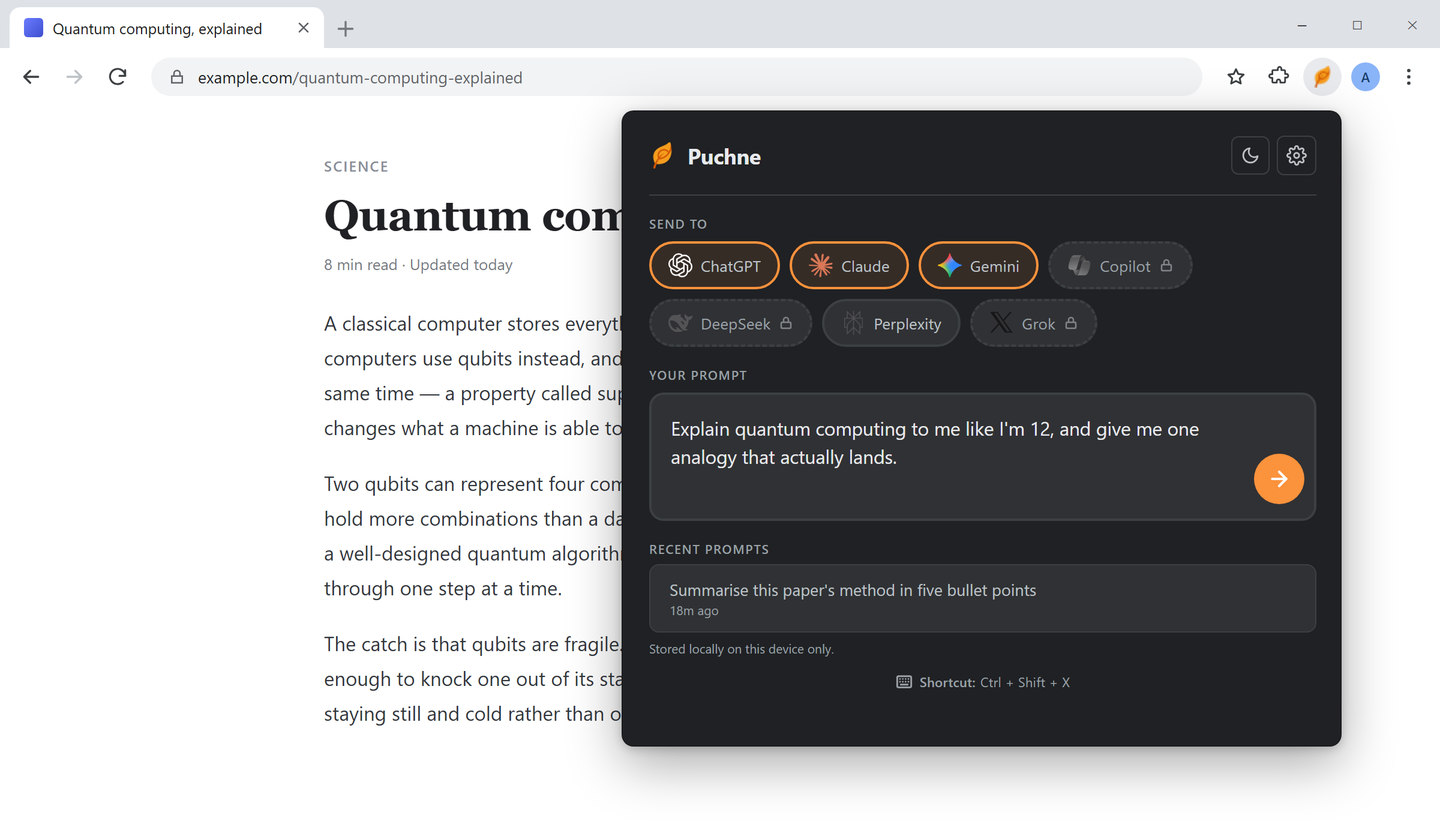
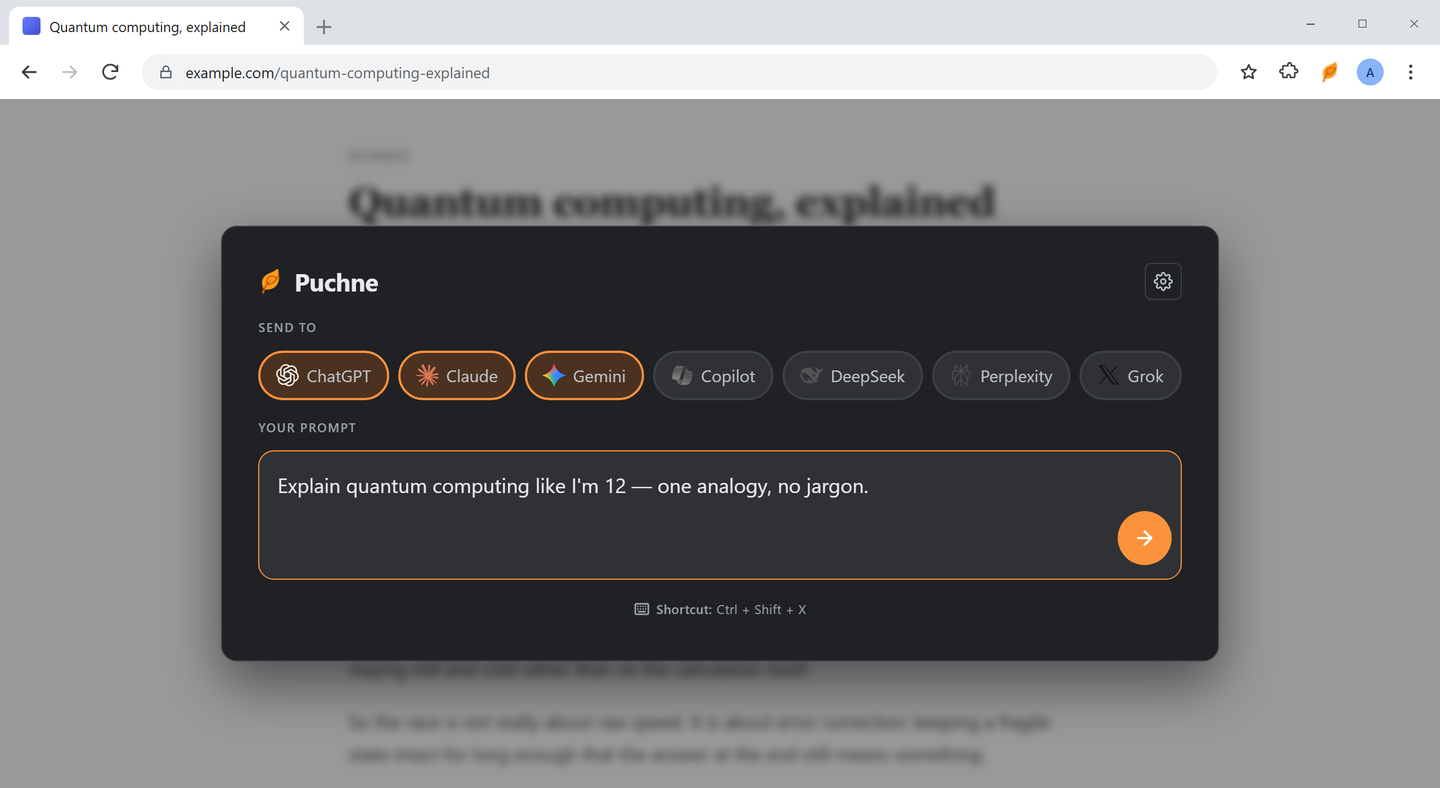
docs: use the centered overlay for the README hero

diff --git a/README.md b/README.md
@@ -11,7 +11,7 @@ Ask once and Puchne sends your prompt to **ChatGPT, Claude, Gemini, Copilot, Dee
 *Puchne comes from the Gujarati **પૂછવું** (Puchhvu) — "to ask".*
 
 <p align="center">
-  <img src="docs/screenshots/popup.png" alt="The Puchne popup open over a web page, with ChatGPT, Claude and Gemini switched on and a prompt typed in" />
+  <img src="docs/screenshots/popup.png" alt="Puchne open in the middle of a web page, with ChatGPT, Claude and Gemini switched on and a prompt typed in" />
 </p>
 
 ---
